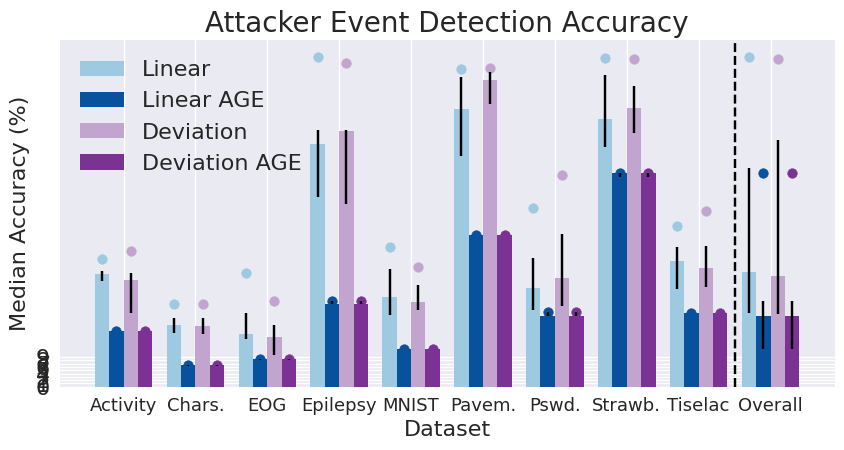
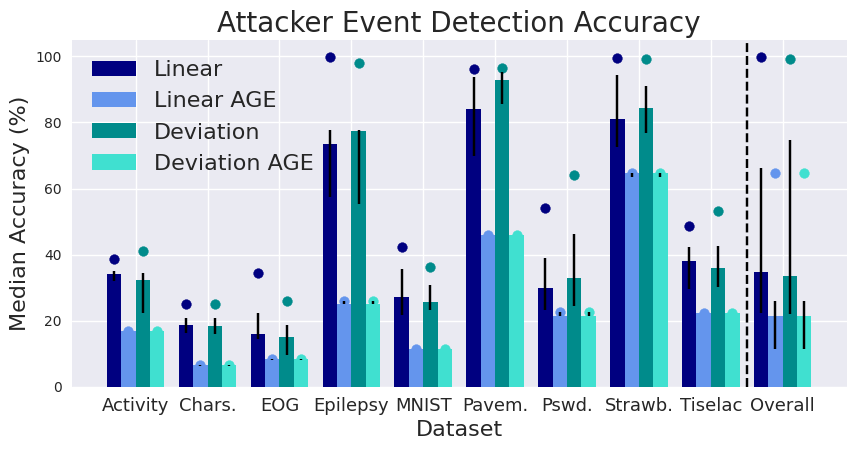
edit read me

diff --git a/adaptiveleak/analysis/plot_utils.py b/adaptiveleak/analysis/plot_utils.py
@@ -18,21 +18,40 @@ TITLE_FONT = 20
 PLOT_SIZE = (8, 6)
 
 
+# COLORS = {
+#     'random_standard': '#d73027',
+#     'uniform_standard': '#fc8d59',
+#     'adaptive_heuristic_standard': '#9ecae1',
+#     'adaptive_heuristic_group_unshifted': '#6baed6',
+#     'adaptive_heuristic_single_group': '#6baed6',
+#     'adaptive_heuristic_padded': '#6baed6',
+#     'adaptive_heuristic_pruned': '#6baed6',
+#     'adaptive_heuristic_group': '#08519c',
+#     'adaptive_deviation_standard': '#c2a5cf',
+#     'adaptive_deviation_group_unshifted': '#9e9ac8',
+#     'adaptive_deviation_single_group': '#9e9ac8',
+#     'adaptive_deviation_padded': '#9e9ac8',
+#     'adaptive_deviation_pruned': '#9e9ac8',
+#     'adaptive_deviation_group': '#7b3294',
+#     'skip_rnn_standard': '#dfc27d',
+#     'skip_rnn_group': '#a6611a'
+# }
+
 COLORS = {
     'random_standard': '#d73027',
     'uniform_standard': '#fc8d59',
-    'adaptive_heuristic_standard': '#9ecae1',
+    'adaptive_heuristic_standard': 'navy',
     'adaptive_heuristic_group_unshifted': '#6baed6',
     'adaptive_heuristic_single_group': '#6baed6',
-    'adaptive_heuristic_padded': '#6baed6',
+    'adaptive_heuristic_padded': 'yellow',
     'adaptive_heuristic_pruned': '#6baed6',
-    'adaptive_heuristic_group': '#08519c',
-    'adaptive_deviation_standard': '#c2a5cf',
+    'adaptive_heuristic_group': 'cornflowerblue',
+    'adaptive_deviation_standard': 'darkcyan',
     'adaptive_deviation_group_unshifted': '#9e9ac8',
     'adaptive_deviation_single_group': '#9e9ac8',
-    'adaptive_deviation_padded': '#9e9ac8',
+    'adaptive_deviation_padded': 'orange',
     'adaptive_deviation_pruned': '#9e9ac8',
-    'adaptive_deviation_group': '#7b3294',
+    'adaptive_deviation_group': 'turquoise',
     'skip_rnn_standard': '#dfc27d',
     'skip_rnn_group': '#a6611a'
 }

diff --git a/adaptiveleak/analysis/plot_all_attacks.py b/adaptiveleak/analysis/plot_all_attacks.py
@@ -119,7 +119,7 @@ def plot(dataset_results: Dict[str, Dict[str, AttackResult]], output_file: Optio
 
         ax.set_xticks(xs)
         ax.set_xticklabels(dataset_names, fontsize=AXIS_FONT - 3)
-        ax.set_yticklabels([round(y, 3) for y in ax.get_yticks()], fontsize=AXIS_FONT)
+        # ax.set_yticklabels([round(y, 3) for y in ax.get_yticks()], fontsize=AXIS_FONT)
 
         # Add a line to separate the 'All' category
         ax.axvline((xs[-1] + xs[-2]) / 2, linestyle='--', color='k')

diff --git a/README.md b/README.md
@@ -82,7 +82,7 @@ Ubuntu(WSL 2)
 `Linear policy` -> `adaptive heuristic policy`  
 `Activity`データセット -> `uci_har`  
 `Characters`データセット -> `trajectories`  
-`Password`データセット -> `haptic`  
+`Password`データセット -> `haptics`  
 
 ### `'seaborn-ticks' is not a valid package style` errorへの対処
 `analysis/plot_utils.py`の`PLOT_STYLE = seaborn-ticks`をコメントアウトし`PLOT_STYLE = 'seaborn-v0_8'`に書き換える。
